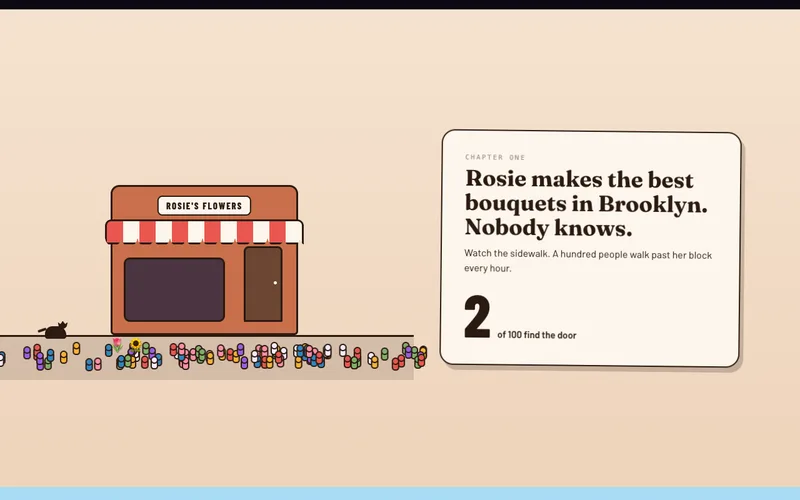
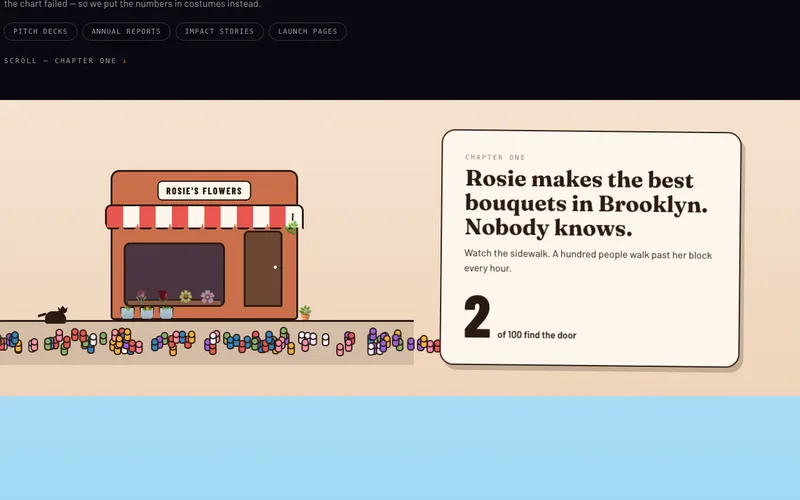
Build 07 round 3: one Rosie's, stamped everywhere — flowers in the window
David's note: the shop looked different in all four panels. It's now a
single JS template mounted into every scene, so it cannot drift — same
brick, same red-and-white awning, same sign. Night, lit, upstairs, and
the chapter-four miniature are just states (a dusk overlay, window glow,
a 0.5 scale). Every appearance now has flowers on the window sill, a
hanging plant swinging from the awning, a potted plant by the door, and
the three sidewalk buckets. Consistency is tested: awning + facade
computed styles must match across all four stamps, blooms and plants
required at each. 20 tests green.

Built with Claude Code (LiFi NYC)

diff --git a/app/public/examples/lab/concepts/growth-street/street.css b/app/public/examples/lab/concepts/growth-street/street.css
@@ -262,7 +262,29 @@ html, body {
   z-index: 2;
 }
 
-.ch--3 .shop { background: #7a4a68; }
+/* night is a state, not a different shop: same brick, dimmed by the hour */
+.shop--night::after {
+  content: "";
+  position: absolute;
+  inset: -70px -16px -4px;
+  background: rgba(23, 27, 66, 0.42);
+  border-radius: 16px;
+  pointer-events: none;
+  z-index: 3;
+}
+
+.shop--night .shop__window,
+.shop--night .shop__door,
+.shop--night .shop__blooms { z-index: 4; }
+
+/* the miniature in chapter four is the same shop, just far away */
+.shop--mini {
+  left: auto;
+  right: 30px;
+  bottom: 34px;
+  transform: scale(0.5);
+  transform-origin: bottom right;
+}
 
 .shop__awning {
   position: absolute;
@@ -279,7 +301,30 @@ html, body {
     radial-gradient(circle at 13px 0, #000 12px, transparent 13px) bottom left / 26px 10px repeat-x;
 }
 
-.ch--2 .shop__awning { background: repeating-linear-gradient(90deg, #2e86c1 0 26px, var(--paper) 26px 52px); }
+/* a hanging plant swings from the awning's corner */
+.shop__hang {
+  position: absolute;
+  top: 78px;
+  right: -4px;
+  font-size: 21px;
+  line-height: 1;
+  z-index: 2;
+  transform-origin: top center;
+  animation: hangsway 4.8s ease-in-out infinite;
+  filter: drop-shadow(1px 1.5px 0 rgba(43, 26, 18, 0.3));
+}
+
+.shop__hang::before {
+  content: "";
+  position: absolute;
+  top: -12px;
+  left: 50%;
+  width: 2px;
+  height: 12px;
+  background: var(--story-ink);
+}
+
+@keyframes hangsway { 0%, 100% { transform: rotate(-4deg); } 50% { transform: rotate(4deg); } }
 
 .shop__sign {
   position: absolute;
@@ -309,12 +354,52 @@ html, body {
   border: 3px solid var(--story-ink);
   border-radius: 10px;
   transition: background 700ms ease, box-shadow 700ms ease;
+  overflow: hidden;
 }
 
-.shop__window--lit,
-.ch.is-live .shop__window--glow {
+.shop--lit .shop__window {
   background: linear-gradient(180deg, #ffd98a, #ffb35c);
   box-shadow: 0 0 34px rgba(255, 200, 199, 0.55);
+}
+
+/* flowers live in the window, always */
+.shop__blooms {
+  position: absolute;
+  left: 0;
+  right: 0;
+  bottom: 4px;
+  display: flex;
+  justify-content: space-evenly;
+  align-items: flex-end;
+  font-size: 19px;
+  line-height: 1;
+  border-top: 0;
+}
+
+.shop__blooms::after {
+  content: "";
+  position: absolute;
+  left: 4px;
+  right: 4px;
+  bottom: -4px;
+  height: 7px;
+  background: #8a5a43;
+  border-top: 2.5px solid var(--story-ink);
+}
+
+.shop__blooms i { position: relative; z-index: 1; font-style: normal; }
+
+.shop--dark .shop__blooms i { filter: saturate(0.55) brightness(0.72); }
+
+/* a potted friend by the door */
+.shop__pot {
+  position: absolute;
+  right: -26px;
+  bottom: -3px;
+  font-size: 24px;
+  line-height: 1;
+  z-index: 3;
+  filter: drop-shadow(1px 1.5px 0 rgba(43, 26, 18, 0.3));
 }
 
 .shop__door {
@@ -340,7 +425,7 @@ html, body {
   background: var(--paper);
 }
 
-.shop__door--lit { background: linear-gradient(180deg, #ffe4a8, #f7b45e); box-shadow: 0 0 26px rgba(255, 210, 130, 0.6); }
+.shop--lit .shop__door { background: linear-gradient(180deg, #ffe4a8, #f7b45e); box-shadow: 0 0 26px rgba(255, 210, 130, 0.6); }
 
 /* flower buckets: real containers, planted on the sidewalk against the shop */
 .shop__buckets {
@@ -713,41 +798,7 @@ html, body {
   100% { opacity: 0.9; transform: translate(var(--dx), var(--dy)) scale(0.75) rotate(200deg); }
 }
 
-.minishop {
-  position: absolute;
-  right: 7%;
-  bottom: 16%;
-  width: 118px;
-  height: 92px;
-  background: #c96f4a;
-  border: 3px solid var(--story-ink);
-  border-radius: 10px;
-  z-index: 2;
-}
-
-.minishop__awning {
-  position: absolute;
-  top: 18px;
-  left: -8px;
-  right: -8px;
-  height: 20px;
-  background: repeating-linear-gradient(90deg, #e9564f 0 16px, var(--paper) 16px 32px);
-  border: 2.5px solid var(--story-ink);
-  border-radius: 6px 6px 0 0;
-}
-
-.minishop p {
-  margin: 0;
-  position: absolute;
-  top: 1px;
-  left: 50%;
-  transform: translateX(-50%);
-  font-family: "Barlow Condensed", sans-serif;
-  font-weight: 800;
-  font-size: 11px;
-  letter-spacing: 0.1em;
-  color: var(--paper);
-}
+/* chapter four's shop is the shared template at half scale (see .shop--mini) */
 
 /* ---------- chapter 5: skyline bar chart ---------- */
 
@@ -885,7 +936,7 @@ html, body {
 /* ---------- reduced motion: the story stands still, fully told ---------- */
 
 @media (prefers-reduced-motion: reduce) {
-  .intro__cue span, .cat__tail, .zzz i, .pigeon, .phone { animation: none; }
+  .intro__cue span, .cat__tail, .zzz i, .pigeon, .phone, .shop__hang { animation: none; }
   .walker { animation: none; opacity: 0.9; }
   .ch__copy, .ch__scene { opacity: 1; transform: none; transition: none; }
   .ch:nth-child(odd) .ch__copy { transform: rotate(0.6deg); }

diff --git a/app/public/examples/lab/concepts/growth-street/index.html b/app/public/examples/lab/concepts/growth-street/index.html
@@ -10,7 +10,7 @@
   <link rel="preconnect" href="https://fonts.googleapis.com">
   <link rel="preconnect" href="https://fonts.gstatic.com" crossorigin>
   <link rel="stylesheet" href="https://fonts.googleapis.com/css2?family=Barlow+Condensed:wght@700;800&family=Barlow:wght@400;500;600;700&family=Fraunces:opsz,wght@9..144,600;9..144,700&display=swap">
-  <link rel="stylesheet" href="street.css?v=2">
+  <link rel="stylesheet" href="street.css?v=3">
 </head>
 <body>
   <svg width="0" height="0" aria-hidden="true" style="position:absolute">
@@ -37,13 +37,7 @@
     <section class="ch ch--1" data-ch="1" aria-label="Chapter one — nobody knows">
       <div class="ch__grain" aria-hidden="true"></div>
       <div class="ch__scene scene1" data-scene="1" aria-hidden="true">
-        <div class="shop shop--dark" data-shop>
-          <div class="shop__awning"></div>
-          <p class="shop__sign">ROSIE'S FLOWERS</p>
-          <div class="shop__window"></div>
-          <div class="shop__door" data-door></div>
-          <div class="shop__buckets" aria-hidden="true"><span class="bucket"><i>🌷</i></span><span class="bucket"><i>🌻</i></span></div>
-        </div>
+        <div data-shop-mount="1"></div>
         <div class="cat" aria-hidden="true"><span class="cat__body"></span><span class="cat__tail"></span></div>
         <div class="walkway" data-walkway></div>
       </div>
@@ -58,13 +52,7 @@
     <section class="ch ch--2" data-ch="2" aria-label="Chapter two — the sign the whole city sees">
       <div class="ch__grain" aria-hidden="true"></div>
       <div class="ch__scene scene2" data-scene="2" aria-hidden="true">
-        <div class="shop" data-shop2>
-          <div class="shop__awning"></div>
-          <p class="shop__sign">ROSIE'S FLOWERS</p>
-          <div class="shop__window shop__window--lit"></div>
-          <div class="shop__door shop__door--lit"></div>
-          <div class="shop__buckets" aria-hidden="true"><span class="bucket"><i>🌷</i></span><span class="bucket"><i>🌻</i></span><span class="bucket"><i>💐</i></span></div>
-        </div>
+        <div data-shop-mount="2"></div>
         <div class="phone" aria-hidden="true">
           <div class="phone__screen"><i>🌷</i><b>rosies.nyc</b></div>
           <div class="phone__beam"></div>
@@ -84,13 +72,7 @@
       <div class="ch__scene scene3" data-scene="3" aria-hidden="true">
         <div class="moon" aria-hidden="true"></div>
         <div class="stars" data-nightstars></div>
-        <div class="shop shop--night">
-          <div class="shop__upstairs"><span class="zzz"><i>z</i><i>z</i><i>z</i></span></div>
-          <div class="shop__awning"></div>
-          <p class="shop__sign">ROSIE'S FLOWERS</p>
-          <div class="shop__window shop__window--glow"></div>
-          <div class="shop__door"></div>
-        </div>
+        <div data-shop-mount="3"></div>
         <div class="tickets" data-tickets></div>
       </div>
       <div class="ch__copy">
@@ -109,7 +91,7 @@
           <div class="talker__bubble">“best flowers<br>in brooklyn”</div>
         </div>
         <div class="starfield" data-starfield></div>
-        <div class="minishop" aria-hidden="true"><div class="minishop__awning"></div><p>ROSIE'S</p></div>
+        <div data-shop-mount="4"></div>
       </div>
       <div class="ch__copy">
         <p class="ch__kicker">Chapter four</p>
@@ -147,7 +129,7 @@
     <p class="fallback">This build needs JavaScript — the story animates as you scroll.</p>
   </noscript>
 
-  <script type="module" src="street.js?v=2"></script>
+  <script type="module" src="street.js?v=3"></script>
   <script defer src="/examples/lab/assets/lab-return.js"></script>
 </body>
 </html>

diff --git a/app/public/examples/lab/concepts/growth-street/street.js b/app/public/examples/lab/concepts/growth-street/street.js
@@ -17,6 +17,40 @@ const chapters = $$('[data-ch]');
 
 const WALKER_COLORS = ['#e9564f', '#2e86c1', '#f2b134', '#7fb069', '#9b5de5', '#ff8fab', '#f3ecff'];
 
+/* ---------- ONE Rosie's, stamped everywhere ----------
+   The shop is a single template so it cannot drift between panels.
+   Only its state changes: lights, night, the upstairs floor, scale. */
+
+function mountShop(slot, { lit = false, night = false, upstairs = false, mini = false } = {}) {
+  const mount = $(`[data-shop-mount="${slot}"]`);
+  if (!mount) return null;
+  const shop = document.createElement('div');
+  shop.className = [
+    'shop',
+    lit ? 'shop--lit' : 'shop--dark',
+    night ? 'shop--night' : '',
+    mini ? 'shop--mini' : '',
+  ].filter(Boolean).join(' ');
+  shop.innerHTML = `
+    ${upstairs ? '<div class="shop__upstairs"><span class="zzz"><i>z</i><i>z</i><i>z</i></span></div>' : ''}
+    <div class="shop__awning"></div>
+    <span class="shop__hang" aria-hidden="true">🌿</span>
+    <p class="shop__sign">ROSIE'S FLOWERS</p>
+    <div class="shop__window">
+      <span class="shop__blooms" aria-hidden="true"><i>🌷</i><i>🌹</i><i>🌼</i><i>🌸</i></span>
+    </div>
+    <div class="shop__door"></div>
+    <span class="shop__pot" aria-hidden="true">🪴</span>
+    <div class="shop__buckets" aria-hidden="true"><span class="bucket"><i>🌷</i></span><span class="bucket"><i>🌻</i></span><span class="bucket"><i>💐</i></span></div>`;
+  mount.appendChild(shop);
+  return shop;
+}
+
+mountShop(1, { lit: false });
+mountShop(2, { lit: true });
+mountShop(3, { lit: true, night: true, upstairs: true });
+mountShop(4, { lit: true, mini: true });
+
 /* ---------- chapter 1 + 2: sidewalks of jellybean people ---------- */
 
 function buildWalkway(walkway, { total, entering, door }) {
@@ -48,8 +82,8 @@ function buildWalkway(walkway, { total, entering, door }) {
   window.addEventListener('resize', size);
 }
 
-buildWalkway($('[data-walkway]'), { total: 100, entering: 2, door: $('[data-door]') });
-buildWalkway($('[data-walkway2]'), { total: 46, entering: 14, door: $('[data-shop2] .shop__door') });
+buildWalkway($('[data-walkway]'), { total: 100, entering: 2, door: $('[data-shop-mount="1"] .shop__door') });
+buildWalkway($('[data-walkway2]'), { total: 46, entering: 14, door: $('[data-shop-mount="2"] .shop__door') });
 
 /* ---------- chapter 3: night stars + the ticket stack ---------- */
 
@@ -251,6 +285,16 @@ if (TESTMODE) {
     check('fourteen turn in after the website', $$('.walker--in', $('[data-walkway2]')).length === 14, '');
     check('door target measured', ($('[data-walkway]').style.getPropertyValue('--doorX') || '').includes('px'), $('[data-walkway]').style.getPropertyValue('--doorX'));
     check('grain texture on every chapter', $$('.ch__grain').length === 5 && !!document.getElementById('grain'), '');
+
+    /* one shop, everywhere the same */
+    const shops = $$('.shop');
+    const awnings = shops.map(s => getComputedStyle($('.shop__awning', s)).backgroundImage);
+    const facades = shops.map(s => getComputedStyle(s).backgroundColor);
+    check('four stamps of the same shop', shops.length === 4, shops.length);
+    check('every awning matches', awnings.every(a => a === awnings[0]), '');
+    check('every facade matches', facades.every(f => f === facades[0]), facades[0]);
+    check('flowers in every window', shops.every(s => $$('.shop__blooms i', s).length === 4), '');
+    check('plants + buckets at every shop', shops.every(s => $('.shop__hang', s) && $('.shop__pot', s) && $$('.bucket', s).length === 3), '');
 
     /* chapter 1 counter */
     window.__street.activate(1);
